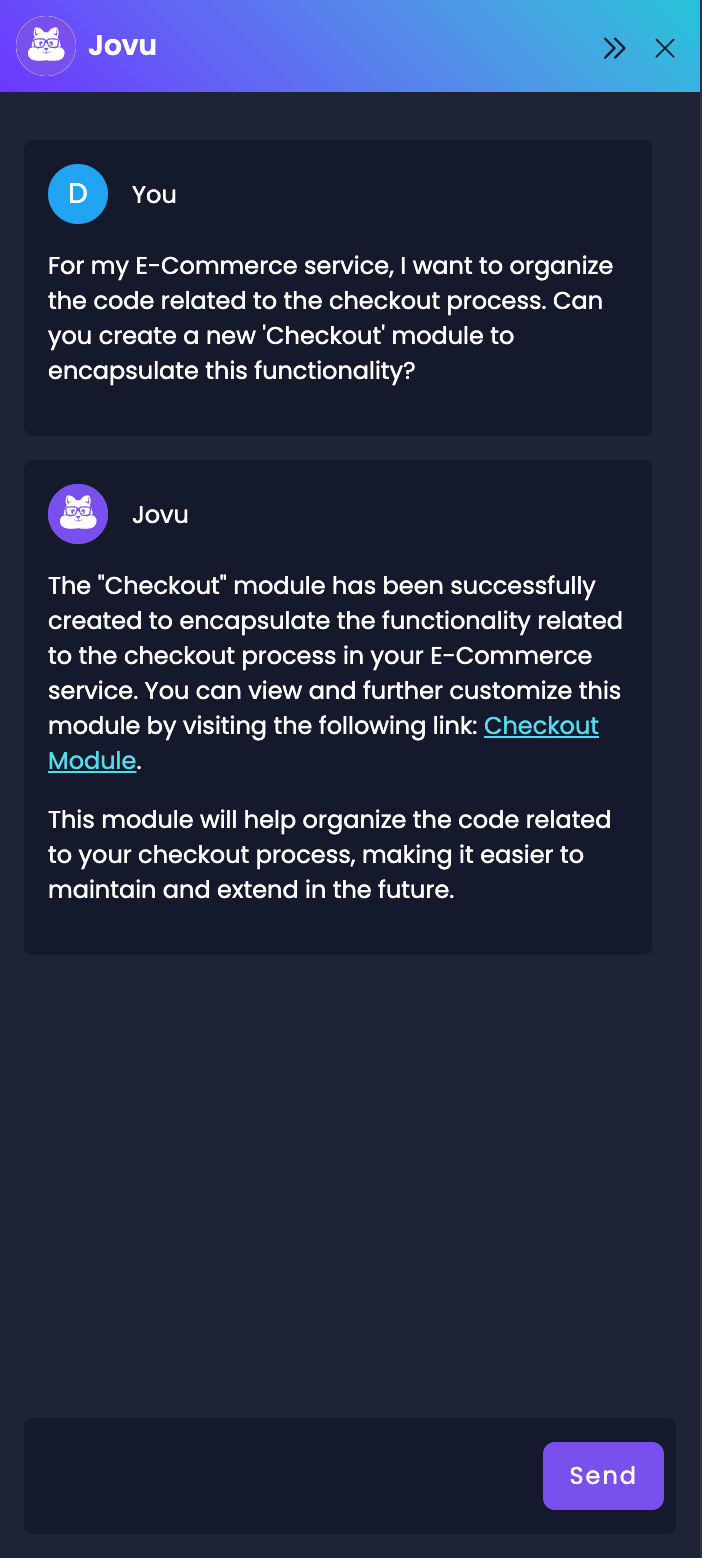
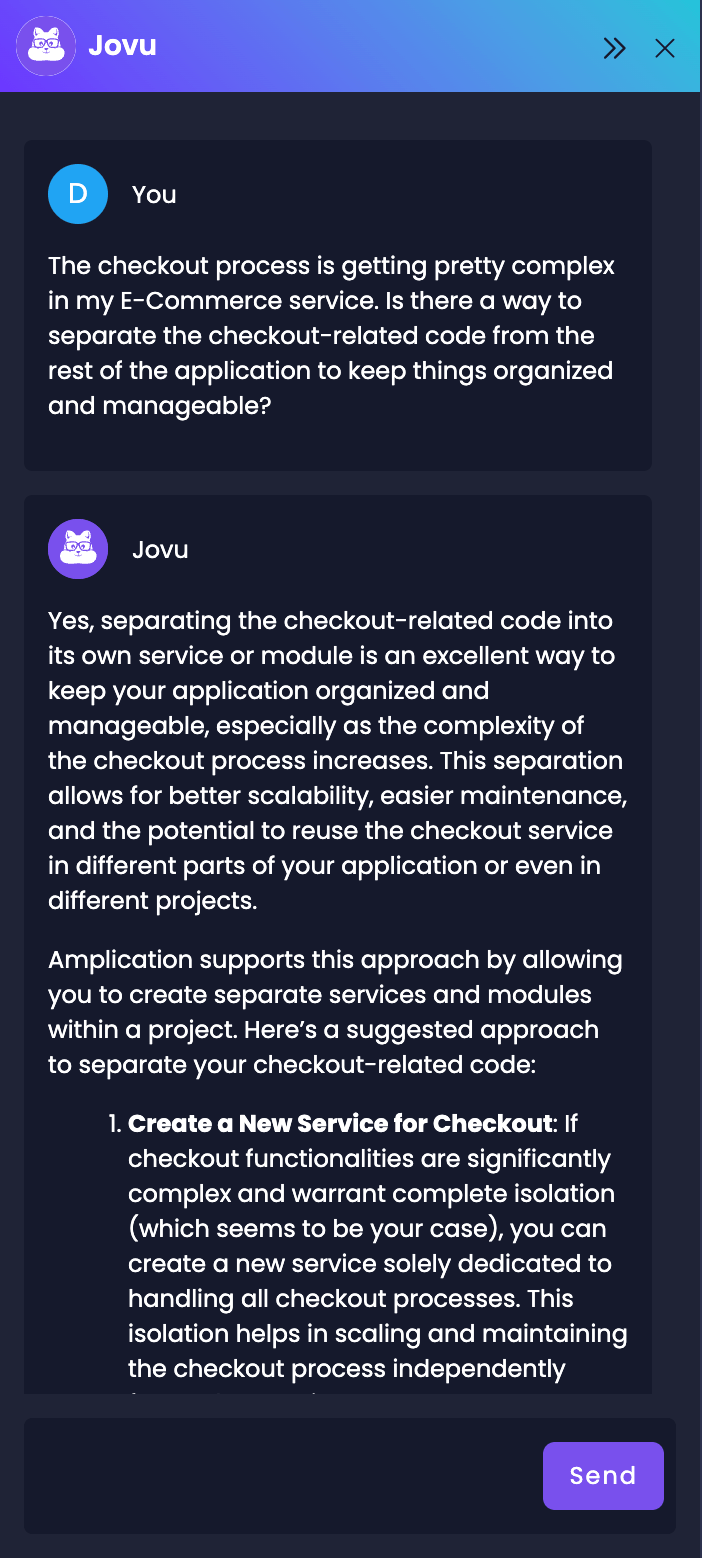
(docs): Implementing Paz's latest feedback.

Changed region(s): [[0.0598, 0.3081, 0.8974, 0.8935], [0.0598, 0.154, 0.8675, 0.2773]]

diff --git a/docs/how-to/amplication-ai-examples.md b/docs/how-to/amplication-ai-examples.md
@@ -17,6 +17,17 @@ Jovu offers two main types of assistance:
 
 Below, you'll find examples of tasks Jovu can accomplish and questions you can ask to get helpful answers. Each example includes a specific task or question and a sample response from Jovu. Feel free to use these as inspiration or copy and paste them directly into your Amplication dashboard to experience Jovu's assistance firsthand.
 
+## Start New Projects
+
+Jovu can kickstart new projects by setting up the initial project structure and configuration based on your requirements.
+
+**Question**
+```
+I'm starting a new twitter clone project that will contain several micro-services. Can you help me create it?
+```
+
+![Create new projects with Jovu](./assets/amplication-ai/create-new-project.png)
+
 ## Create a New Service
 
 When [creating a new service](/first-service/), Jovu can help you automatically set up the basic structure with the necessary entities and fields.
@@ -26,7 +37,7 @@ When [creating a new service](/first-service/), Jovu can help you automatically 
 Can you create a new service for a blog application that will have posts, categories, authors, and comments?
 ```
 
-![](./assets/amplication-ai/new-service.png)
+![](./assets/amplication-ai/create-blog-service.png)
 
 ## Create New Entities
 
@@ -56,7 +67,7 @@ Jovu can assist you in creating [new custom modules](/custom-types-and-actions#m
 
 **Question**
 ```
-In the Checkout module, I need to define the data structure for the information required when a user initiates a payment. Could you help me create a DTO that includes the payment amount, the currency, and the selected payment method?
+The checkout process is getting pretty complex for my E-commerce service. Is there a way to separate the checkout-related code from the rest of the application to keep things organized and manageable?
 ```
 
 ![](./assets/amplication-ai/create-new-module.png)
@@ -67,7 +78,7 @@ Jovu can [create new DTOs](/custom-types-and-actions#dtos-and-enums) to shape th
 
 **Question**
 ```
-In the Checkout module, I need to define the data structure for the information required when a user initiates a payment. Could you help me c reate a DTO that includes the payment amount, the currecny, and the selected payment method?
+In the Checkout module, I need to define the data structure for the information required when a user initiates a payment. Could you help me create a DTO that includes the payment amount, the currecny, and the selected payment method?
 ```
 
 ![Create New Amplication DTOs](./assets/amplication-ai/create-new-dto.png)
@@ -81,17 +92,6 @@ Jovu will create [custom actions](/custom-types-and-actions#actions-1) (API endp
 Can you help me create an Action to handle the approval or rejection of a comment for my BlogService and any necessary DTOs?
 ```
 ![Create Custom Actions For Your Modules](./assets/amplication-ai/create-actions.png)
-
-## Start New Projects
-
-Jovu can kickstart new projects by setting up the initial project structure and configuration based on your requirements.
-
-**Question**
-```
-I'm starting a new project fora client. Can you create a new project for me called AcmeCorp Website?
-```
-
-![Create new projects with Jovu](./assets/amplication-ai/create-project.png)
 
 ## Recommend Suitable Plugins
 

diff --git a/docs/how-to/amplication-ai.md b/docs/how-to/amplication-ai.md
@@ -10,9 +10,9 @@ pagination_next: how-to/amplication-ai-examples
 
 Amplication AI is a game-changing feature that revolutionizes code generation in Amplication.
 
-In less than four minutes, and with a few requests, you can go from an idea to fully-functional, production-ready code. This includes data models, APIs, authentication, and all the other [essential components](/getting-started/#technologies) your project needs.
+In just a few minutes, and with a few requests, you can go from an idea to fully-functional, production-ready code. This includes data models, APIs, authentication, and all the other [essential components](/getting-started/#technologies) your service needs.
 
-Making changes to your existing services is also a breeze. You can easily change your service's architecture, add new entities, install plugins, or make any necessary adjustments, all while maintaining a high-quality codebase.
+You can also easily make changes to your existing services. Change your service's architecture, add new entities, install plugins, or make any necessary adjustments, all while maintaining a high-quality codebase.
 
 With Amplication AI (currently in Beta), you get production-ready code for all your services, no matter how many you need. The [generated code](/getting-started/view-generated-code/) is clean, follows best practices, and is ready for your developers to dive in and add the custom logic that will make your application unique.
 
@@ -22,7 +22,7 @@ At the heart of Amplication's AI capabilities is Jovu.
 
 ## What Is Jovu?
 
-Jovu is a breakthrough AI assistant from Amplication designed to help you generate production-ready back-end services.
+Jovu is a breakthrough AI assistant from Amplication designed to help you generate production-ready backend services.
 
 Using the most sophisticated AI language models, Jovu helps you throughout your Amplication journey.
 It can assist you with:

diff --git a/docs/getting-started/commit-changes-and-build-new-versions.md b/docs/getting-started/commit-changes-and-build-new-versions.md
@@ -16,7 +16,7 @@ In this guide, you'll learn how to commit changes to your git provider and build
 :::tip
 [Amplication's AI](/amplication-ai) can help you build new versions of your service and create commit messages with a single request.
 
-Ask Jovu: `Can you commit my pending changes with the message "Added Task entity and updated Project entity"?`
+Ask Jovu: `Can you build and commit my pending changes with the message "Added Task entity and updated Project entity"?`
 :::
 
 ## Prerequisites
